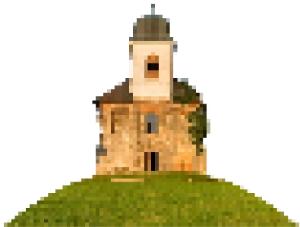
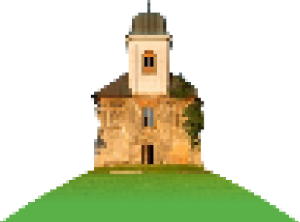
Add matous church

Changed region(s): [[0.0, 0.0, 1.0, 1.0]]

diff --git a/components/game.js b/components/game.js
@@ -47,9 +47,9 @@ export default function Game() {
     let matous = {
       image: new Image(),
       width: 300 * 0.6,
-      height: 227 * 0.6,
-      x: 300,
-      y: board.height - ground.height - 227 * 0.6 + 4,
+      height: 222 * 0.6,
+      x: 0,
+      y: board.height - ground.height - 222 * 0.6 + 4,
       isVisible: false,
     };
     matous.image.src = "/assets/images/game/matous.png";
@@ -109,7 +109,7 @@ export default function Game() {
     requestAnimationFrame(update);
 
     // handles
-    setInterval(createObstacle, 1000);
+    setInterval(createObstacle, 2000);
     setInterval(piegonMove, 50); // 0.1s
     setInterval(moveGround, 10);
     document.addEventListener("keydown", movePiegon);
